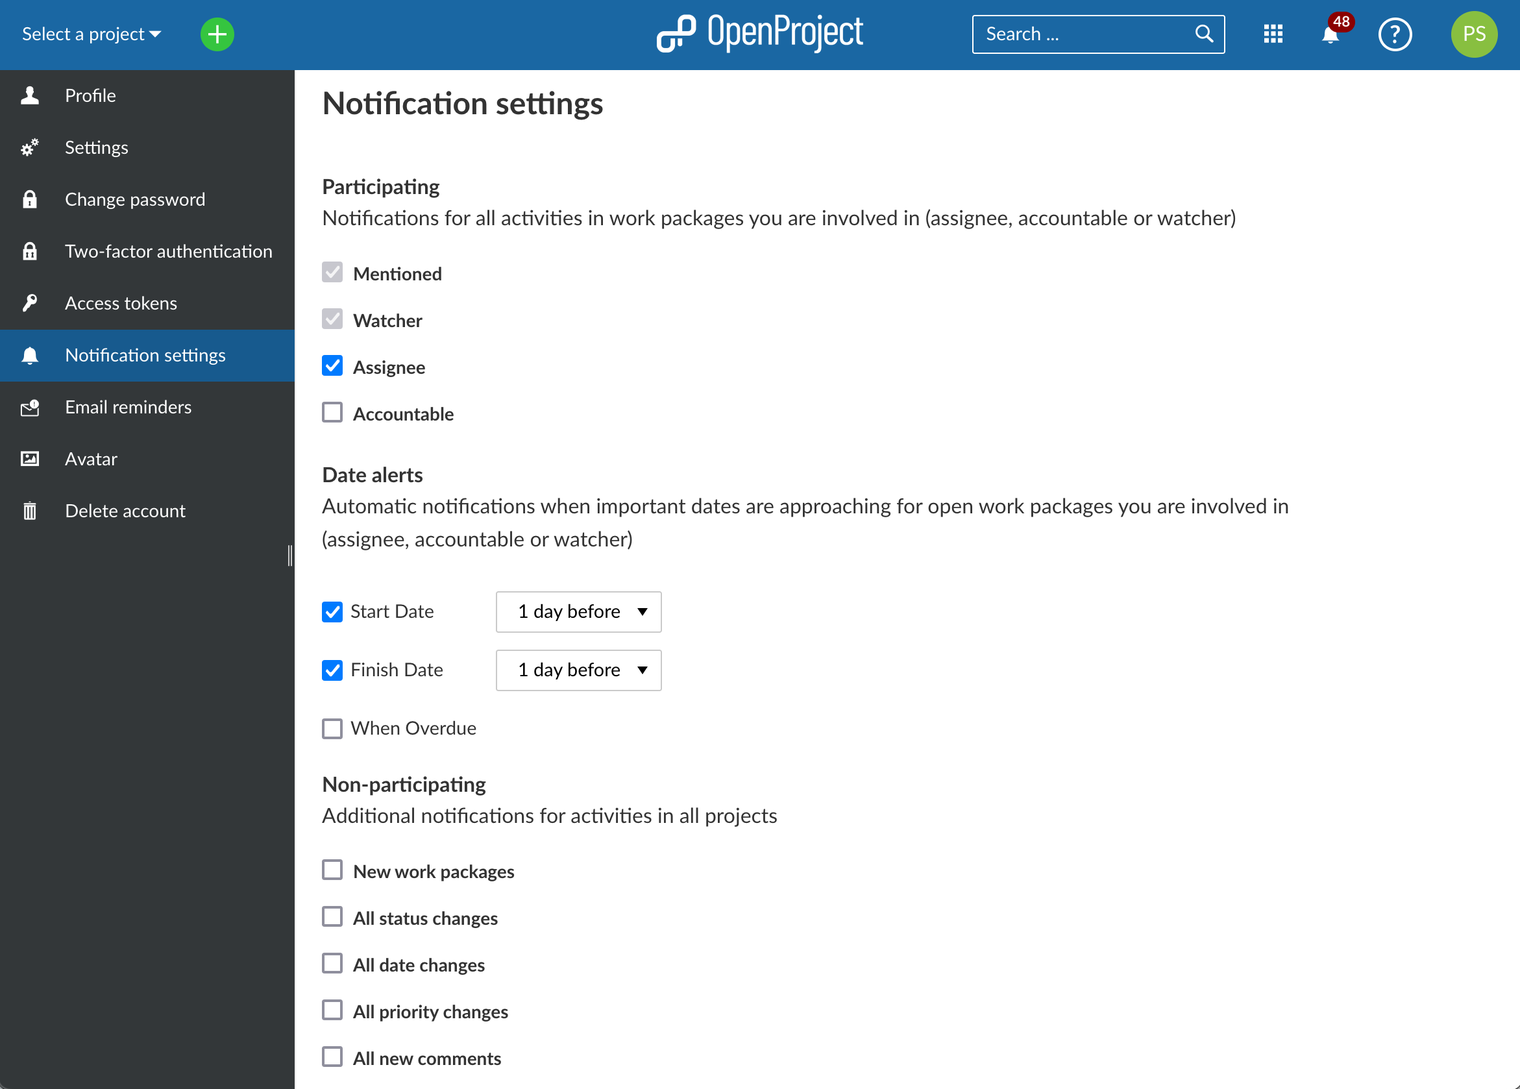
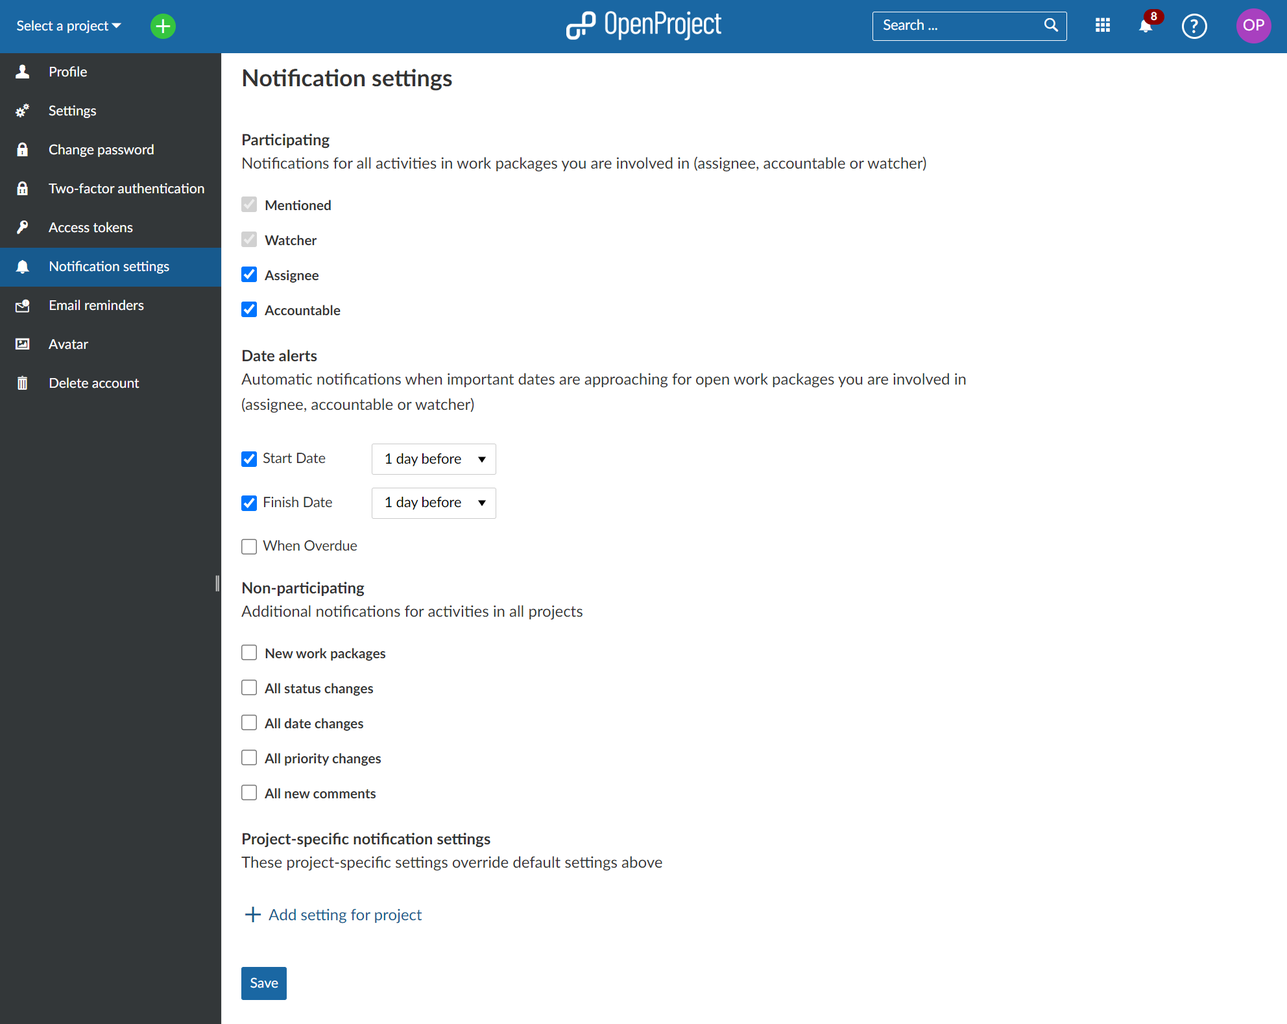
Small changes and updates

diff --git a/docs/user-guide/team-planner/README.md b/docs/user-guide/team-planner/README.md
@@ -33,13 +33,13 @@ Clicking on the **Team planners** entry on the left sidebar takes you to the tea
 
 ![A screenshot of a list of team planners visible after clicking on Team Planners on the left-hand menu](TeamPlanner-12.4-listAllAvailable.png)
 
-1. You can create a new team planner using either the **+ Team planner** button in the top right near your avatar at the bottom of the left menu bar.
+1. You can create a new team planner using either the **+ Team planner** button in the top right near your avatar or at the bottom of the left menu bar.
 
 2. Click on an existing (saved) team planner to open it.
-3. Team planners with *public* visibility settings appear under the **Public** heading in the menu bar. 
-4. New team planners by default appear under the **Private** heading in the left menu bar. These are visible only to you. 
+3. Team planners with *public* visibility settings appear under the **Public** heading in the menu bar.
+4. New team planners by default appear under the **Private** heading in the left menu bar. These are visible only to you.
 
-> **Info**: Both *public* and *private* calendars can be added as a **favored** planners; they will then appear under the  **Favorite** heading in the menu bar.
+> **Info**: Both *public* and *private* team planners can be added as **favored** planners; they will then appear under the **Favorite** heading in the menu bar.
 
 
 ## Team planner basics
@@ -48,20 +48,20 @@ Clicking on the **Team planners** entry on the left sidebar takes you to the tea
 
 A team planner has a number of features numbered 1 to 8 in the above screenshot:
 
-1. Click on the name of your team planner (*Marketing Team* in the example above) to edit it. Unless it's a new team planner, this change has been to confirmed by pressing the floppy disk icon that appears next to the name after you change it.
-2. Use the **+ Add existing** button to add an existing work package  to the team planner. You do this by searching for work package and dragging its card to an assignee, at a certain time. This will then update the *assignee*, *start date* and *finish date* attributes of that work pacakge.
+1. Click on the name of your team planner (*Marketing Team* in the example above) to edit it. Unless it's a new team planner, this change has to be confirmed by pressing the floppy disk icon that appears next to the name after you change it.
+2. Use the **+ Add existing** button to add an existing work package  to the team planner. You do this by searching for work package and dragging its card to an assignee, at a certain time. This will then update the *assignee*, *start date* and *finish date* attributes of that work package.
 3. Add a new team member to the assignee column by Clicking on the **Add assignee** button.
-4. By default, the team planner will only show work packages assigned belonging to the the current project that are assigned to your team members. However, it is possible that they are also assigned work package belong to other projects. You can make these work packages from other projects visible by using **Include projects** feature and selecting additional projects to include in this view.
-5. Use the **Filter** feature like you would in [work packages](#) module to make only those work packages meeting certain criteria visible. You could, for example, filter such that only work packages of certain types, certain statuses or certain custom field values are visible.
+4. By default, the team planner will only show assigned work packages belonging to the current project. However, it is possible to also add assigned work packages belonging to other projects. You can make these work packages from other projects visible by using **Include projects** feature and selecting additional projects to be included in this view.
+5. Use the **Filter** feature (same as in the [work packages](#) module) to display only work packages that meet certain filter criteria. You could, for example, filter such that only work packages of certain types, certain status or certain custom field values are visible.
 6. The **Fullscreen** button lets you view the team planner in fullscreen mode.
-7. The  **[⋮]** (more) button gives you additional options, such as saving, renaming and saving a copy (saving as), or deleting the teamn planner. This is also where you can modify the visibility options. 
-8. By default the planning calendar only shows the work week (week excluding the weekend). Use this drop down to toggle between work week, 1-week and 2-week views.
+7. The  **[⋮]** (more) button gives you additional options, such as saving, renaming and saving a copy (saving as), or deleting the team planner. This is also where you can modify the visibility options.
+8. By default the team planner only shows the work week (week excluding the weekend). Use the drop down to toggle between work week, 1-week and 2-week views. With the arrows you can navigate the weeks back and forth. The Today button brings you to the current week.
 
-> **Note**: The team planner will highlight non-working days in the calendar with a darker background colour. By default, a work package cannot be dragged or resized such that it begins or ends on these days unless the "Working days only" switch is turned off for that work package. To learn how to do this, refer to the documentation on [Working days and duration](../work-packages/set-change-dates/#working-days-and-duration). 
+> **Note**: The team planner will highlight non-working days in the calendar with a darker background color. By default, a work package cannot be dragged or resized such that it begins or ends on these days unless the "Working days only" switch is turned off for that work package. To learn how to do this, refer to the documentation on [Working days and duration](../work-packages/set-change-dates/#working-days-and-duration).
 
-## Adding team members and work packages
+## Add team members and work packages
 
-### Adding team members
+### Add team members
 
 When you create a new team planner, it will be empty, like so:
 
@@ -73,13 +73,11 @@ Repeat this step until all relevant team members are added and then save it usin
 
 ![Adding team members](TeamPlanner-12.4-addAssignee.png)
 
-> **Note:** If you are unsure which projects a member is a member of, simply click on that user's name to access their user page.
+If you need to remove a member from this list, hover over their name and click on the **X button** that appears next to their name. (This action simply removes the row and does not affect the user's status in the project).
 
-If you need to remove a member from this list,  hover over their name and click on the **X button** that appears next to their name. (This action simply removes the row and does not affect the user's status in the project).
+Once you are finished adding members to the team planner, click on the floppy disk icon in the top header to save.
 
-Once you are finished adding members to the planner, click on the floppy disk icon in the top header to save.
-
-### Adding and working with work package strips
+### Add and edit work packages
 
 Next, you can add existing work packages to your planner. You can do this by either creating a new work package or by adding existing work packages.
 
@@ -93,7 +91,7 @@ You can create a new work package for a particular member of your team by clicki
 
 
 
-A **new work package dialog** will open. The assignee, start and finish dates will already be set based on where you clicked to create the work package. You can now go ahead an add any additional details, such as subject, work package type, a description and any attachments. Scrolling further down on the split screen also gives you access to other attributes such as cost and time and any custom fields that might exist.
+A **new work package dialog** will open. The assignee, start and finish dates will already be set based on where you clicked to create the work package. You can add any additional details, such as subject, work package type, a description and add attachments. Scrolling further down on the split screen also gives you access to other attributes such as cost and time and custom fields that might exist.
 
 ![An example of the new work package split screen view](TeamPlanner-12.4-newTask-splitScreen.png)
 
@@ -105,17 +103,17 @@ If you would like to take an existing work package and assign it to your team me
 
 Start by pressing the **+ Add existing** button below the name of the team planner and search for the work package you would like to add. Once you find it, drag and drop the work package card to the calendar, depending to whom you would like to assign it, and to which start date. The finish date will automatically be derived based on the duration of the work package.
 
-> **Info:** Scheduling tasks by adding existing work packages like this will be easier in either one week or two week views, especially when you have work packages that might span (or go over) a weekend. 
+> **Info:** Scheduling tasks by adding existing work packages is easier in the one or two week view, especially if you have work packages that can span a weekend. 
 
 ![Searching for existing work packages to add to the team planner](TeamPlanner-12.4-addExisting.png)
 
 Sometimes, it is not possible to assign an existing work package to a particular team member for a variety of reasons: they might not be a member of the project the selected work package belongs to, might not have the necessary permissions, or you yourself might not have the necessary permissions to edit the dates or the assignee for that work package. In this case, a small error message will indicate that the operation was not successful.
 
-#### Moving and resizing a work package
+#### Move and resize a work package
 
 ![Hover on a work package to see drag handles](TeamPlanner-12.4-hoverWorkPackageCard-dragHandles.png)
 
-The team planner allows you to quickly reschedule and re-assign work packages cards:
+The team planner allows you to quickly re-schedule and re-assign work packages cards:
 
 - To re-assign work packages, **click and drag a card** from one team member's row to another.
 - To change the start date only, hover over the work package and **click and drag the *drag handles* on the left edge** (1) of the work package card to shorten or lengthen the total duration.
@@ -124,26 +122,26 @@ The team planner allows you to quickly reschedule and re-assign work packages ca
 
 > **Info**: Work packages can also expand and retract in width depending on how many non-working days are spanned (for example, a 3-day task starting on Thursday and ending on Monday will spread across 5 calendar days;  dragging that same work package so that it starts on a Tuesday and ends on a Thursday means that it will spread across 3 calendar days. In both cases, the duration remains 3 days.
 
-Sometimes, it is not possible to modify a the dates or the assignee of  work package for a variety of reasons. It could be, for example, because you might not have the necessary permissions to make that change or because existing relations make it impossible. In such cases, an error message will appear on the top of the screen to let you know that the change was was possible.
+Sometimes, it is not possible to modify the dates or the assignee of work packages for a variety of reasons. It could be, for example, because you might not have the necessary permissions to make that change or because existing relations make it impossible. In such cases, an error message will appear on the top of the screen to let you know that the change was was possible.
 
-## Work package detail view
+## Work package details view
 
-When you want to really understand what a team member is working on, or want to re-schedule work packages around, it can be important to get the full context of each work package. Team planners makes this possible by giving you easy access to work package details.
+When you want to understand what a team member is working on, or want to re-schedule work packages, it can be important to get the full context of each work package. Team planners make this possible by giving you easy access to work package details.
 
 To open the work package details in split screen, hover on a work package card and click on the **i icon** (information):
 
 ![Click on the i icon in a work package card to open details in split screen view](TeamPlanner-12.4-hoverWorkPackageCard.png)
 
-This will make open work package details in split screen view, where you can view and edit all work package attributes, consult recent activity, view linked files and link new or attach ones and view and create work package relations.
+This will open the work package details in split screen view, where you can view and edit all work package attributes, consult recent activity, view linked files and link new or attach ones and view and create work package relations.
 
 ![An example of the work package detail view in split screen](TeamPlanner-12.4-splitScreen.png)
 
-## Removing a work package
+## Remove a work package
 
 Since the team planner is simply a view that displays work packages for certain assignees over a certain period of time, removing a work package simply means not making it visible in the current view. This can be achieved in a number of ways:
 
 1. Adding a filter that will exclude that work package (for example, filtering for type *Task* will remove work packages of other types from that view).
-2. Removing the start and finish dates or changing  them such that they do not fall in the time period displayed in the team planner.
+2. Removing the start and finish dates or changing them such that they do not fall in the time period displayed in the team planner.
 3. Removing the assignee or changing the assignee to someone who has not been added to this particular team planner.
 
 Alternatively, the team planner offers an easy way to remove a work package by combining 2 and 3 in one action. When you start dragging a work package, a *remove drop zone* appears at the bottom of the team planner. You can drag a work package card to that drop zone to clear the assignee, start date and finish date attributes in one go.

diff --git a/docs/user-guide/notifications/notification-settings/README.md b/docs/user-guide/notifications/notification-settings/README.md
@@ -5,20 +5,20 @@ sidebar_navigation:
 description: In-app notification settings in OpenProject
 keywords: notifications settings
 ---
-# Notification Settings
+# Notification settings
 
-You can configure how and for what events you wish to be notified through Notification center. To access these settings, you can either click on **_your avatar on the top right corner → My account → Notification settings_** or click on **Notification Settings** on the top right corner of Notification center.
+You can configure how and for what events you wish to be notified through Notifications. To access these settings, you can either click on your avatar on the top right corner > *My account* > *Notification settings* or click on **Notification settings** on the top right corner of the notifications center.
 
 ![A screenshot of Notification center with the Notification settings button highlighted](Notification-settings-12.4-fromNotificationCenter.png)
 
 Notification settings are divided in four sections:
 
 | Topic                                               | Description                                                  |
-|-----------------------------------------------------| :----------------------------------------------------------- |
-| [Participating](#participating)                     | Be notified of activities on some or all of the work packages in which you are participating |
-| [Date alerts](#date-alerts-premium-feature)         | Be notified of approaching start or end dates, and when things are overdue |
-| [Non-participating](#non-participating)             | Be notified of activities on work packages in which you are not participating |
-| [Project-specific](#project-specific-notifications) | Fine-tune your notification settings at the level of individual projects |
+| --------------------------------------------------- | :----------------------------------------------------------- |
+| [Participating](#participating)                     | Be notified of activities on some or all of the work packages in which you are participating. |
+| [Date alerts](#date-alerts-premium-feature)         | Be notified of approaching start or end dates, and when things are overdue. |
+| [Non-participating](#non-participating)             | Be notified of activities on work packages in which you are not participating. |
+| [Project-specific](#project-specific-notifications) | Fine-tune your notification settings at the level of individual projects. |
 
 
 ![A screenshot of the notification settings page](Notification-settings-12.4-overall.png)
@@ -31,9 +31,9 @@ By default, you will be notified of all activities in work packages in which you
 
 ![A screenshot of options for participating work packages](Notification-settings-12.4-Participating.png)
 
-You cannot disable notifications for when you are mentioned since the goal of mentioning you is to get your attention. If you no longer wish to be receive notifications for certain work packages you are watching, you can simply unwatch them.
+You cannot disable notifications for when you are mentioned since the goal of mentioning you is to get your attention. If you no longer wish to receive notifications for certain work packages you are watching, you can simply unwatch them.
 
-> Info: Modifying these settings might result in your missing updates and changes that are relevant to you. We do not recommend changing them unless you are absolutely certain of the consequences.
+> **Info**: Modifying these settings may cause you to miss updates and changes that are relevant to you. We do not recommend changing them unless you are absolutely certain of the consequences.
 
 ## Date alerts (Premium feature)
 
@@ -45,7 +45,7 @@ Date alerts allow you to receive a notification when a start date or a finish da
 
 ![A screenshot of options for date alerts](Notification-settings-12.4-dateAlerts.png)
 
-For each date, you can choose to be alerted the same day, a day before, 3 days before or a week before.
+For start and finish date dates, you can choose to be alerted the same day, a day before, 3 days before or a week before.
 
 You can also choose to receive a recurring notification (every day, every 3 days or every week) for work packages that are overdue. You can stop receiving these alerts by either unchecking this option, or changing the dates of the relevant work packages.
 
@@ -53,7 +53,7 @@ Date alerts notifications will appear in [notification center](../#accessing-in-
 
 ## Non-participating
 
-You can also chose to receive notifications for specific events concerning work packages in which you are not participating (that is, for which you are assignee, accountable or a watcher). 
+You can also chose to receive additional notifications for specific events in all projects concerning work packages in which you are not participating.
 
 You can be notified of:
 
@@ -63,21 +63,23 @@ You can be notified of:
 - Priority changes
 - New comments
 
-![A screenshot of options for non-participating work packages](Notification-settings-12.4-dateAlerts.png)
+![A screenshot of options for non-participating work packages](Notification-settings-12.4-nonPartipating.png)
 
-> **Info:** Please note that these apply to _all_ work packages in _all_ of your projects. Enabling lots of these can result in your receiving too many irrelevant notifications. Please use this feature with parsimony. 
+> **Info:** Please note that these apply to _all_ work packages in _all_ of your projects. If you enable many of them, you may receive too many irrelevant notifications. Please use this feature with parsimony.
 
 
 
 ## Project-specific notifications
 
-In some cases, you may wish to fine-tune your notification settings at a project-level. 
+In some cases, you may wish to fine-tune your notification settings at a project-level.
 
 This might be because you are more active in certain projects than others or because certain activities (like date alerts or the creation of new work packages) might be more important to you than others.
 
 To add project-specific notification settings, first click on **+ Add setting for project** and select a project. 
 
-Once you do so, you will see a table with a column for that project and and the same three sections (Participating, Date alerts, Non-Particiating) as your overall notification settings. You can now select and unselect any number of options from this list for more specific project-level notification settings.
+Once you do so, you will see a table with a column for that project and and the same three sections (Participating, Date alerts, Non-participating) as your overall notification settings. You can now select and unselect any number of options from this list for more specific project-level notification settings.
+
+NOTE: UPDATE SCREENSHOT! THERE IS STILL A BUG IN THIS SCREENSHOT (I.E. WATCHER)
 
 ![Text](Notification-settings-12.4-projectSpecific.png)
 

diff --git a/docs/user-guide/notifications/README.md b/docs/user-guide/notifications/README.md
@@ -9,13 +9,13 @@ keywords: notifications
 
 This section will introduce in-app notifications and explain how to work with them. 
 
-## Overview of in-app notifications in OpenProject
+## Overview of in-app notifications
 
 In-app notifications are a tool to get notified about requests, changes and new assignments in OpenProject. The notifications can work as an alternative to email notification, or be used in parallel. This feature is enabled by default.
 
 <video src="https://openproject-docs.s3.eu-central-1.amazonaws.com/videos/OpenProject-In-app-notifications.mp4" type="video/mp4" controls="" style="width:100%"></video>
 
-## Accessing in-app notifications
+## Access in-app notifications
 
 Whenever you are getting in-app notification, a red elliptical with the number of notifications is displayed on the bell symbol on the upper right side of the OpenProject screen between the module button and the help button. (Please note, if there are more than 99 notifications, the elliptical will simply be red without a number in it).
 
@@ -25,25 +25,23 @@ To view the notifications, please left-click on the bell symbol. By default, you
 
 This will then take you to the **notification center**.
 
-To access the in-app notification settings. Please left-click the "Notification settings" button in the upper right side or navigate via **My account > Notification settings**.
+To access the in-app notification settings. Please left-click the "Notification settings" button in the upper right side or navigate via *My account* > *Notification settings*.
 
 By default, messages are grouped by work package, and the number in the blue bubble next to each work package displays the number of related messages that are associated with each work package. Alternatively, these notifications can also be accessed from within a given work package under the **Activity** tab in the details view.
 
 ![A screenshot of the notification center with a number of unread notifications](NotificationCenter-12.4-inbox.png)
-
-The exclamation mark within the bell symbol on the right side of the notification center indicates that there are unread notifications.
 
 By clicking on a row in the notification center, you will see the details in the split screen.
 
 ![Clicking on a notification row allows you to access the work package in split screen mode](NotificationCenter-12.4-splitScreenView.png)
 
 
-To make viewing notifications more manageable, OpenProject includes several ways to filter or group notifications.
+To make the display of notifications clearer, OpenProject includes several ways to filter or group notifications.
 
 You can filter or group the notifications using the two areas in the left menu bar (1 and 2), or bulk edit notifications by selecting options in the top right (3) of the screen:
 
 1. You can filter by the **reason** you were notified: because you were mentioned (*@mention*), because you are either the assignee or accountable, because it concerns a work package you are watching or because you have an active date alert.
-2. You can filter by **project**, for example filter for notifications that originated from a specific project.
+2. You can filter by **project**, for example to filter for notifications that originated from a specific project.
 3. You can also filter notifications for **Unread** or **All** (Read and Unread) notifications. There you can also mark all messages as read.
 4. The [**Notification settings**](./notification-settings) button will bring you to your personal notification settings to configure your notification preferences.
 5. When selecting any of the notifications, you can also view more **details in the split screen**, for example comments members made regarding a specific work package. Unread messages are indicated by a blue bubble. You can even edit directly in this view.
